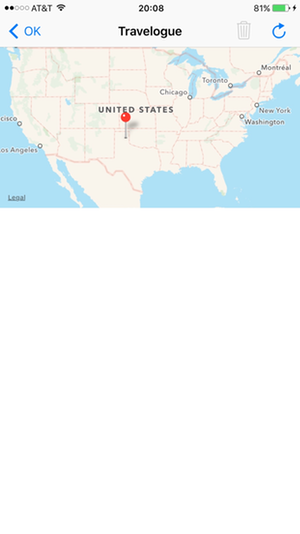
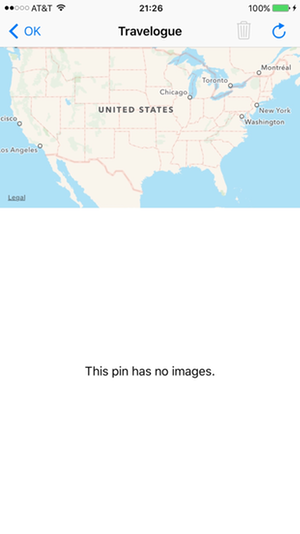
docs:  updates

diff --git a/Paperwork/READMEFiles/ChangeLog.md b/Paperwork/READMEFiles/ChangeLog.md
@@ -3,6 +3,7 @@
 ### Not Tagged Yet
 * [Travelogue View collection view flow layout incorrect for iPhone 6 form factor][I3]
 * [Travelogue View some images appear "selected" at initial presentation][I4]
+* [Add "No Photos" label to collection view when empty][I7]
 
 ### Version 1.01
 * Finish README
@@ -16,3 +17,4 @@
 
 [I3]:  https://github.com/gaw3/VirtualTourist/issues/3
 [I4]:  https://github.com/gaw3/VirtualTourist/issues/4
+[I7]:  https://github.com/gaw3/VirtualTourist/issues/7
